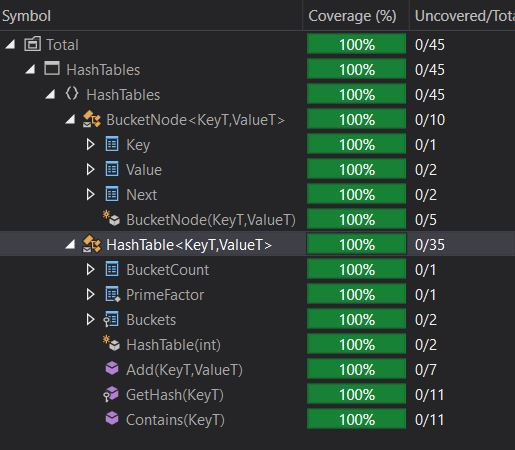
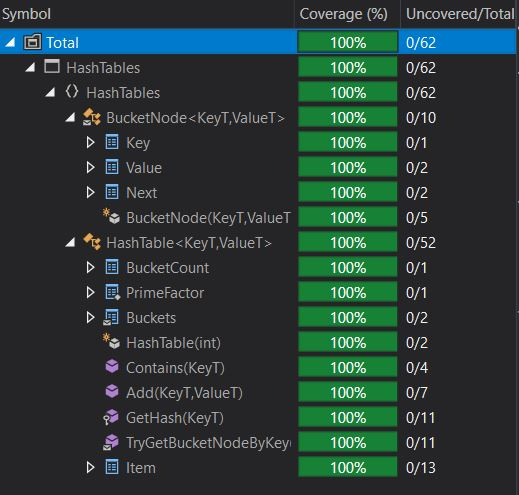
Added testing for indexers added in the TreeIntersection whiteboard challenge. Updated coverage screenshot and README.

diff --git a/Data_Structures/HashTables/HashTablesTesting/HashTablesTesting.cs b/Data_Structures/HashTables/HashTablesTesting/HashTablesTesting.cs
@@ -1,5 +1,6 @@
 using HashTables;
 using System;
+using System.Collections.Generic;
 using System.Linq;
 using Xunit;
 
@@ -62,10 +63,10 @@ namespace HashTablesTesting
         {
             // Arrange
             HashTable<double, int> table = new HashTable<double, int>();
-            table.Add(Math.PI, int.MaxValue);
+            table.Add(keyValue, int.MaxValue);
 
             // Act
-            (bool found, _) = table.Contains(Math.PI);
+            (bool found, _) = table.Contains(keyValue);
 
             // Assert
             Assert.True(found);
@@ -112,6 +113,60 @@ namespace HashTablesTesting
 
             // Assert
             Assert.True(found);
+        }
+
+        [Theory]
+        [ClassData(typeof(GetHashTestData))]
+        public void CanUseIndexerGetForExistingKey(double testKey)
+        {
+            // Arrange
+            HashTable<double, int> table = new HashTable<double, int>();
+            table.Add(testKey, int.MaxValue);
+
+            // Act
+            int actualValue = table[testKey];
+
+            // Assert
+            Assert.Equal(int.MaxValue, actualValue);
+        }
+
+        [Fact]
+        public void CannotUseIndexerGetForNonexistantKeys()
+        {
+            // Arrange
+            HashTable<double, int> table = new HashTable<double, int>();
+
+            // Assert
+            Assert.Throws<KeyNotFoundException>(() => table[Math.PI]);
+        }
+
+        [Theory]
+        [ClassData(typeof(GetHashTestData))]
+        public void CanUseIndexerSetToCreateKey(double testKey)
+        {
+            // Arrange
+            HashTable<double, int> table = new HashTable<double, int>();
+
+            // Act
+            table[testKey] = int.MaxValue;
+
+            // Assert
+            Assert.True(table.Contains(testKey).found);
+        }
+
+        [Theory]
+        [ClassData(typeof(GetHashTestData))]
+        public void CanUseIndexerSetToUpdateExistingKeyValue(double testKey)
+        {
+            // Arrange
+            HashTable<double, int> table = new HashTable<double, int>();
+            table.Add(testKey, int.MaxValue);
+
+            // Act
+            table[testKey] = int.MinValue;
+
+            // Assert
+            Assert.Equal(int.MinValue, table.Contains(testKey).value);
         }
     }
 }

diff --git a/Data_Structures/HashTables/README.md b/Data_Structures/HashTables/README.md
@@ -2,7 +2,7 @@
 
 **Author:** Joshua Taylor <taylor.joshua.w@gmail.com>
 
-**Version:** 1.0.0
+**Version:** 1.1.0
 
 ## Description
 
@@ -67,5 +67,9 @@ adding key/value pairs to the hash table, looking up values by keys, and
 chaining of duplicate hashed indexes via linked lists.
 
 ## Change Log
+- 5.2.2018 [Joshua Taylor](mailto:taylor.joshua.w@gmail.com) - Added indexer to
+HashTable class with a setter and getter in support of the TreeIntersection
+whiteboard challenge. Refactored the Contains method. Wrote unit tests for new
+methods. All tests passing. 100% code coverage of HashTable and BucketNode classes.
 - 4.28.2018 [Joshua Taylor](mailto:taylor.joshua.w@gmail.com) - Initial release.
 All tests passing. 100% code coverage.
